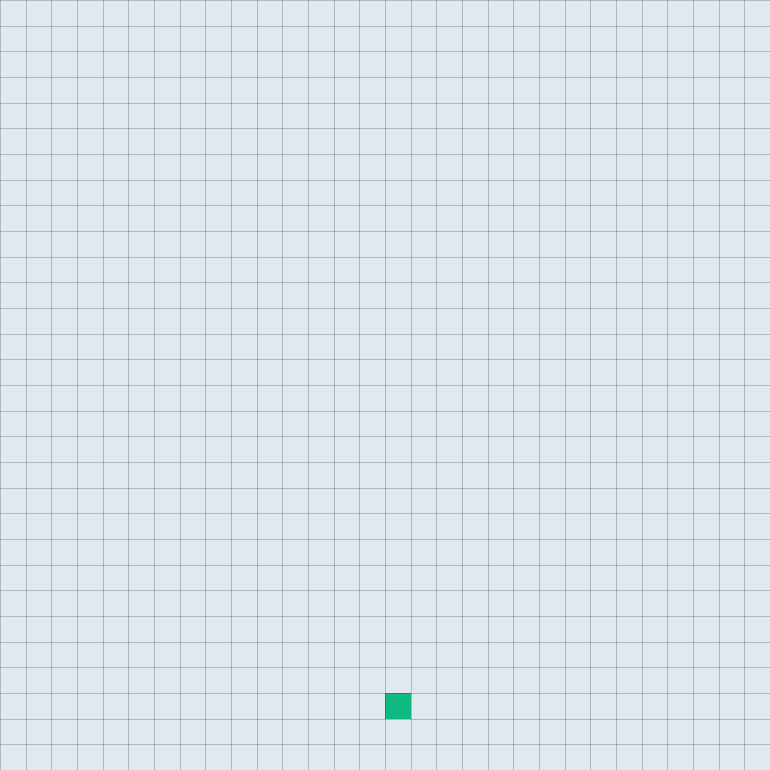
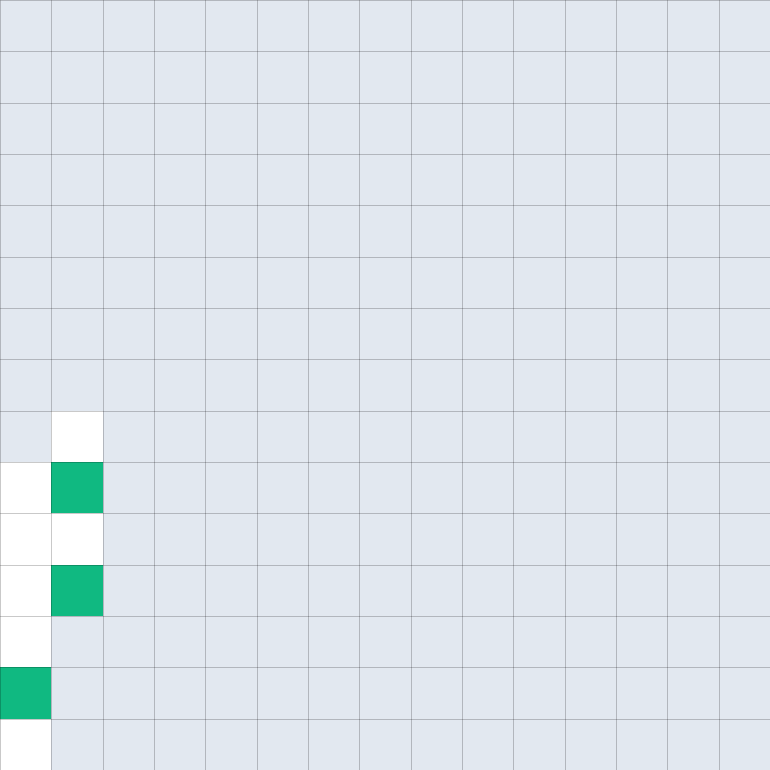
Version finaal

Changed region(s): [[0.0, 0.5299, 0.1558, 1.0], [0.4987, 0.8727, 0.561, 0.9351]]

diff --git a/VisionController.py b/VisionController.py
@@ -4,6 +4,7 @@ import math
 import os
 import sys
 import base64
+import numpy as np
 
 from ultralytics import YOLO
 
@@ -13,7 +14,7 @@ from Cartographie import Cartographie
 
 class VisionController:
     # --- PARAMÈTRES DE TAILLE ET INITIALISATION BLUETOOTH ---
-    def __init__(self, sans_app=False, taille_terrain_cm=(300, 300), resolution_cm=10): 
+    def __init__(self, sans_app=False, taille_terrain_cm=(150, 150), resolution_cm=10): 
         print("[BLUETOOTH] Exécution de ./init_bluetooth.sh...")
         os.system("./init_bluetooth.sh")
         print("[BLUETOOTH] Attente de 2 secondes pour l'activation de l'antenne...")
@@ -62,12 +63,16 @@ class VisionController:
             self.modele_ia = None
 
         # 3. FILAIRE ARDUINO
-        try:
-            self.robot = ArduinoCommunicator(port='/dev/ttyACM0')
-            print("[ARDUINO] Connecté sur /dev/ttyACM0")
-        except Exception as e:
-            print(f"[ATTENTION] Arduino non connecté sur /dev/ttyACM0 : {e}")
-            self.robot = None
+        self.robot = None
+        for port_test in ['/dev/ttyACM0', '/dev/ttyACM1', '/dev/ttyUSB0', '/dev/ttyUSB1']:
+            communicator = ArduinoCommunicator(port=port_test)
+            if communicator.arduino is not None:
+                self.robot = communicator
+                print(f"[ARDUINO] ✅ Connecté avec succès sur {port_test}")
+                break
+                
+        if self.robot is None:
+            print("[ATTENTION] ❌ Impossible de trouver l'Arduino. Vérifie le câble USB !")
 
         # 4. SANS FIL BLUETOOTH
         if not self.sans_app:
@@ -83,18 +88,22 @@ class VisionController:
         self.nb_herbe = 0
         self.distance_cm = 0
         self.carte = Cartographie(taille_terrain_cm, resolution_cm) 
-        self.x_robot = 150.0 
-        self.y_robot = 20.0
+        
+        # --- MODIFICATION 1 : DÉPART À L'ANGLE INFÉRIEUR GAUCHE (0,0 RELATIF) ---
+        # 5 cm place le robot exactement au centre de la toute première case (0,0)
+        self.x_robot = 5.0 
+        self.y_robot = 5.0
         self.cap_degres = 90.0
+        
         self.last_encG = 0
         self.last_encD = 0
         self.cm_par_tick = 0.02
+        self.pause_odo_time = 0
 
-        # --- SUIVI DES OBSTACLES DU CAPTEUR DE FACE ---
         self.nb_obstacles = 0
         self.obstacle_en_cours = False
+        self.last_weed_time = 0
 
-        # --- SUIVI DES QR CODES DE QR_NEW ---
         self.qr_trouves = set()
         try:
             self.total_qr = len([f for f in os.listdir("QR_new") if f.endswith('.png')])
@@ -160,6 +169,12 @@ class VisionController:
         print(" DÉMARRAGE DU CERVEAU HERBINATOR")
         print("==================================================")
         
+        if self.modele_ia is not None:
+            print("[IA] ⏳ Préchauffage de l'IA en cours (peut prendre 15 à 30 secondes)...")
+            image_vide = np.zeros((480, 640, 3), dtype=np.uint8)
+            self.modele_ia(image_vide, verbose=False)
+            print("[IA] ✅ Préchauffage terminé !")
+
         if not self.sans_app:
             self.bluetooth.attendre_connexion()
         
@@ -178,11 +193,19 @@ class VisionController:
                 # --- LECTURE BLUETOOTH ---
                 if not self.sans_app:
                     commande_app = self.bluetooth.recevoir()
-                    if commande_app == "VEILLE":
-                        if self.robot: self.robot.send("V")
+                    
+                    if commande_app == "STOP" or commande_app == "VEILLE":
+                        if self.robot:
+                            self.robot.send("V")
                         self.en_veille = True
+                        print("[BLUETOOTH] ⏸ Ordre STOP reçu : Robot stoppé et RPi mis en veille.")
+                        
                     elif commande_app == "START":
+                        if self.robot:
+                            self.robot.send("S")
                         self.en_veille = False
+                        print("[BLUETOOTH] ▶ Ordre START reçu : Robot démarré et RPi actif.")
+
                     elif commande_app == "RESET":
                         self.distance_cm = 0.0
                         self.start_time_global = time.time()
@@ -190,6 +213,7 @@ class VisionController:
                         self.moy_cert = [0, 0]
                         self.nb_obstacles = 0
                         self.obstacle_en_cours = False
+                        self.last_weed_time = 0
                         self.qr_trouves.clear()
                         print("[BLUETOOTH] 🔄 Réinitialisation des compteurs effectuée.")
 
@@ -197,60 +221,95 @@ class VisionController:
                 if not self.en_veille:
                     ret, frame = self.capturer_image()
                     if ret and frame is not None:
-                        print(f"[IA] Analyse en cours... {time.strftime('%H:%M:%S')}")
                         
                         qr_trouve, infos_qr = self.chercher_limite_qr(frame)
                         if qr_trouve:
-                            index_attendu = len(self.qr_trouves)
-                            nom_attendu = f"H{index_attendu // 2 + 1}" if index_attendu % 2 == 0 else f"B{index_attendu // 2 + 1}"
+                            id_int = int(infos_qr['texte'].replace("ID_", ""))
+                            id_attendu = len(self.qr_trouves) + 1 
                             
-                            nom_decouvert = infos_qr['texte'].replace("ID_", "")
-                            
-                            if nom_decouvert == nom_attendu and infos_qr['position_y'] < 5000000:
+                            if (id_attendu == id_int):
                                 self.qr_trouves.add(infos_qr['texte'])
                                 
                                 if self.robot: 
                                     self.robot.send(f"B:{infos_qr['texte']}:{infos_qr['largeur_px']}:{infos_qr['hauteur_px']}:{infos_qr['position_x']}:{infos_qr['position_y']}")
-                                self.cap_degres = (self.cap_degres + 180) % 360
-                                print(f"[NAV] Séquence validée ! Bordure vue ({infos_qr['texte']}), nouveau cap : {self.cap_degres}°")
-                            else:
-                                # Le tag est soit hors-séquence, soit trop loin sur l'axe Y (Y >= 200)
-                                print(f"[NAV] QR Code ignoré ou en attente ({infos_qr['texte']} | Y:{infos_qr['position_y']}), attendu: {nom_attendu} à Y<200")
-                        else:
-                            herbe_trouvee, angle, distance = self.detecter_mauvaise_herbe(frame)
-                            if herbe_trouvee:
-                                self.nb_herbe += 1 
-                                if self.robot: self.robot.send(f"P:{angle}:{distance}")
                                 
-                                nom_fichier = f"img_test/herbe_n{self.nb_herbe}_{time.strftime('%H%M%S')}.jpg"
-                                cv2.imwrite("photo.png", frame)
-                                print(f"[VISION] Capture de l'herbe sauvegardée : {nom_fichier}")
+                                self.x_robot += self.carte.resolution  
+                                self.cap_degres = (self.cap_degres + 180) % 360
+                                
+                                self.pause_odo_time = time.time() + 2.5
+                                
+                                print(f"[NAV] Séquence validée ! Bordure vue ({id_int} via {infos_qr['texte']}), nouveau cap : {self.cap_degres}°")
+                            else:
+                                pass # Suppression du print spammy "ignorer"
+                        else:
+                            if now - self.last_weed_time >= 10:
+                                herbe_trouvee, angle, distance = self.detecter_mauvaise_herbe(frame)
+                                if herbe_trouvee:
+                                    self.nb_herbe += 1 
+                                    if self.robot: 
+                                        self.robot.send(f"P:{angle}:{distance}")
+                                        
+                                    self.last_weed_time = now
+                                    
+                                    nom_fichier = f"img_test/herbe_n{self.nb_herbe}_{time.strftime('%H%M%S')}.jpg"
+                                    cv2.imwrite("photo.png", frame)
+                                    print(f"[VISION] Cible envoyée à l'Arduino. Capture : {nom_fichier}")
                     else:
                         print("[⚠ ATTENTION] La caméra est active mais refuse de renvoyer un flux d'images.")
 
                 # --- ODOMÉTRIE ET CARTOGRAPHIE ---
                 dist_obs = None
-                if self.robot:
+                if self.robot and self.robot.arduino is not None:
                     donnees_arduino = self.robot.recevoir()
-                    if donnees_arduino and donnees_arduino.startswith("DATA:"):
-                        parts = donnees_arduino.split(":")
-                        if len(parts) == 6:
-                            encG, encD = int(parts[1]), int(parts[2])
-                            avancee_cm = (((encG - self.last_encG) + (encD - self.last_encD)) / 2.0) * self.cm_par_tick
-                            self.last_encG, self.last_encD = encG, encD
-                            self.distance_cm += avancee_cm
-                            cap_rad = math.radians(self.cap_degres)
-                            self.x_robot += avancee_cm * math.cos(cap_rad)
-                            self.y_robot += avancee_cm * math.sin(cap_rad)
-                            
-                            dist_front = int(parts[3])
-                            if dist_front != -1:
-                                dist_obs = dist_front
-                                if not self.obstacle_en_cours:
-                                    self.nb_obstacles += 1
-                                    self.obstacle_en_cours = True
-                            else:
-                                self.obstacle_en_cours = False
+                    if donnees_arduino:
+                        if donnees_arduino.startswith("DATA:"):
+                            parts = donnees_arduino.split(":")
+                            if len(parts) == 7:
+                                encG, encD = int(parts[1]), int(parts[2])
+                                
+                                if time.time() < self.pause_odo_time:
+                                    self.last_encG, self.last_encD = encG, encD
+                                    avancee_cm = 0.0
+                                else:
+                                    avancee_cm = (((encG - self.last_encG) + (encD - self.last_encD)) / 2.0) * self.cm_par_tick
+                                    self.last_encG, self.last_encD = encG, encD
+                                
+                                self.distance_cm += avancee_cm
+                                cap_rad = math.radians(self.cap_degres)
+                                self.x_robot += avancee_cm * math.cos(cap_rad)
+                                self.y_robot += avancee_cm * math.sin(cap_rad)
+                                
+                                dist_front = int(parts[3])
+                                flag_obstacle = int(parts[4])
+                                
+                                # --- MODIFICATION 2 : FORCER L'ÉCRITURE DE L'OBSTACLE ---
+                                if flag_obstacle == 1:
+                                    if not self.obstacle_en_cours:
+                                        self.nb_obstacles += 1
+                                        self.obstacle_en_cours = True
+                                        
+                                        # On force l'obstacle directement sur la grille pour ne pas le perdre
+                                        dist_obs_temporaire = dist_front if dist_front > 0 else self.carte.resolution
+                                        self.carte.forcer_obstacle(self.x_robot, self.y_robot, self.cap_degres, dist_obs_temporaire)
+                                        
+                                        cap_rad_gauche = math.radians(self.cap_degres + 90)
+                                        self.x_robot += self.carte.resolution * math.cos(cap_rad_gauche)
+                                        self.y_robot += self.carte.resolution * math.sin(cap_rad_gauche)
+                                        
+                                        self.pause_odo_time = time.time() + 2.5
+                                        
+                                    dist_obs = None 
+                                else:
+                                    if self.obstacle_en_cours:
+                                        self.obstacle_en_cours = False
+                                        
+                                        cap_rad_droite = math.radians(self.cap_degres - 90)
+                                        self.x_robot += self.carte.resolution * math.cos(cap_rad_droite)
+                                        self.y_robot += self.carte.resolution * math.sin(cap_rad_droite)
+                                        
+                                        self.pause_odo_time = time.time() + 2.5
+                                        
+                                    dist_obs = None
                 
                 if not self.en_veille:
                     self.carte.mettre_a_jour(self.x_robot, self.y_robot, self.cap_degres, dist_obstacle_cm=dist_obs, cible_yolo_detectee=herbe_trouvee)
@@ -276,10 +335,7 @@ class VisionController:
                         "obsApp": self.nb_obstacles,
                         "timeApp": int(time.time() - self.start_time_global),
                         "terrainApp": self.carte.obtenir_surface_exploree_m2(),
-                        
-                        # --- LA BARRE DE PROGRESSION REFLETE UNIQUEMENT LES QR VALIDÉS EN SÉQUENCE ---
                         "pourcentApp": round(len(self.qr_trouves) / self.total_qr, 2),
-                        
                         "distanceApp": round(self.distance_cm, 1),
                         "photoRecue": photo_b64_cache, 
                         "cartoRecue": carto_b64_cache   

diff --git a/Cartographie.py b/Cartographie.py
@@ -28,7 +28,6 @@ class Cartographie:
         col = int(x_cm / self.resolution)
         lig = int(y_cm / self.resolution)
         
-        # Sécurité : vérifier que l'on reste dans les limites du tableau
         if 0 <= lig < self.lignes and 0 <= col < self.colonnes:
             return lig, col
         return None, None
@@ -46,11 +45,9 @@ class Cartographie:
         if cible_yolo_detectee:
             self.grille[lig_robot, col_robot] = 3
         
-        # 2. Déplacement standard : Marquer la case actuelle comme "Libre"
         elif self.grille[lig_robot, col_robot] == 0:
             self.grille[lig_robot, col_robot] = 1
 
-        # 3. Traitement du capteur à ultrasons : Enregistrer un obstacle
         if dist_obstacle_cm is not None and dist_obstacle_cm < 150: 
             # Calcul trigonométrique de la position de l'obstacle
             cap_rad = math.radians(cap_degres)
@@ -59,9 +56,20 @@ class Cartographie:
             
             lig_obs, col_obs = self.coord_vers_grille(x_obs, y_obs)
             if lig_obs is not None and col_obs is not None:
-                # On ne marque l'obstacle que si la case n'est pas déjà ciblée comme une plante
                 if self.grille[lig_obs, col_obs] != 3:
                     self.grille[lig_obs, col_obs] = 2
+
+    # --- MODIFICATION : NOUVELLE FONCTION ---
+    def forcer_obstacle(self, x_robot, y_robot, cap_degres, dist_obstacle_cm):
+        """Inscrit de force un obstacle rouge sur la carte (utilisé lors de l'esquive)"""
+        cap_rad = math.radians(cap_degres)
+        x_obs = x_robot + dist_obstacle_cm * math.cos(cap_rad)
+        y_obs = y_robot + dist_obstacle_cm * math.sin(cap_rad)
+        
+        lig_obs, col_obs = self.coord_vers_grille(x_obs, y_obs)
+        if lig_obs is not None and col_obs is not None:
+            if self.grille[lig_obs, col_obs] != 3:
+                self.grille[lig_obs, col_obs] = 2
 
     def afficher_carte_pure(self):
         """Affiche UNIQUEMENT la grille et les cellules, sans axes ni texte."""
@@ -118,7 +126,6 @@ class Cartographie:
         surface_une_case_m2 = (self.resolution / 100.0) ** 2
         return round(nb_cases_explorees * surface_une_case_m2, 3)
 
-    # --- SÉQUENCE UNIQUE AJOUTÉE : TRADUCTION COORDONNÉES REELLES VERS INDICES DE LA GRILLE ---
     def coord_vers_indices(self, x_cm, y_cm):
         """Retourne les indices de case (colonne, ligne) sous forme de tuple pour l'application."""
         lig, col = self.coord_vers_grille(x_cm, y_cm)

diff --git a/ArduinoCommunicator.py b/ArduinoCommunicator.py
@@ -2,26 +2,32 @@ import serial
 import time
 
 class ArduinoCommunicator:
-    def __init__(self, port='/dev/ttyACM0', baudrate=9600):
+    def __init__(self, port='/dev/ttyACM0', baudrate=115200):
         try:
-            self.arduino = serial.Serial(port, baudrate, timeout=1)
-            print(f"Connecté port {port}")
+            self.arduino = serial.Serial(port, baudrate, timeout=0.05)
+            time.sleep(1)
+            self.arduino.reset_input_buffer()
         except Exception as e:
-            print(f"[ERREUR] {e}")
             self.arduino = None
 
     def send(self, command):
         """Envoie une commande texte brute à l'Arduino."""
         if self.arduino and self.arduino.is_open:
             self.arduino.write(f"{command}\n".encode('utf-8'))
-            print(f"[ENVOI] {command}")
+            print(f"[ENVOI ARDUINO] {command}")
 
     def recevoir(self):
-        """Lit les données de l'Arduino de manière strictement non-bloquante."""
+        """Lit les données et avale tout le retard pour ne garder que le temps réel."""
         if self.arduino and self.arduino.is_open:
             try:
-                if self.arduino.in_waiting > 0:
-                    return self.arduino.readline().decode('utf-8').strip()
+                derniere_ligne_valide = None
+                while self.arduino.in_waiting > 0:
+                    ligne_brute = self.arduino.readline()
+                    if ligne_brute:
+                        derniere_ligne_valide = ligne_brute.decode('utf-8', errors='ignore').strip()
+                
+                return derniere_ligne_valide
+                
             except Exception as e:
                 print(f"[ERREUR LECTURE ARDUINO] {e}")
         return None
